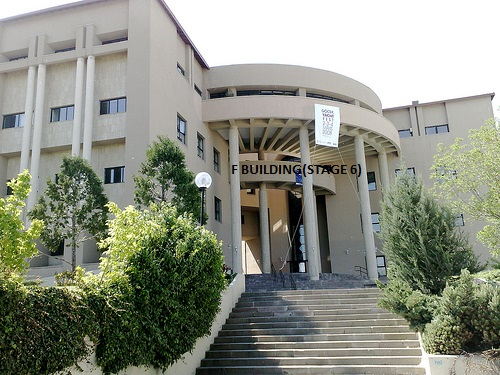
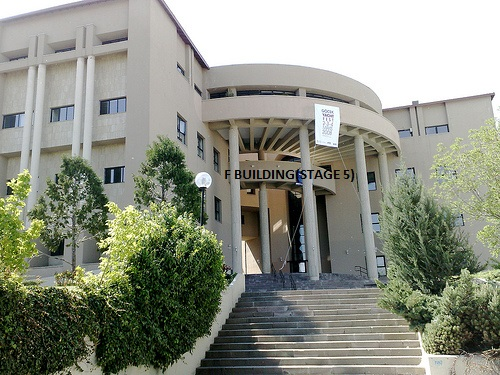
deminki yanlıştı bu dogru

Changed region(s): [[0.45, 0.44, 0.75, 0.4987]]

diff --git a/src/ui/StageSelection.java b/src/ui/StageSelection.java
@@ -66,9 +66,9 @@ class StageSelectionPanel extends JPanel implements ActionListener {
                                                 .addGroup(layout.createSequentialGroup()
                                                         .addComponent(stage4Button, javax.swing.GroupLayout.PREFERRED_SIZE, 227, javax.swing.GroupLayout.PREFERRED_SIZE)
                                                         .addGap(18, 18, 18)
-                                                        .addComponent(stage6Button, javax.swing.GroupLayout.PREFERRED_SIZE, 227, javax.swing.GroupLayout.PREFERRED_SIZE)
+                                                        .addComponent(stage5Button, javax.swing.GroupLayout.PREFERRED_SIZE, 227, javax.swing.GroupLayout.PREFERRED_SIZE)
                                                         .addGap(18, 18, 18)
-                                                        .addComponent(stage5Button, javax.swing.GroupLayout.PREFERRED_SIZE, 227, javax.swing.GroupLayout.PREFERRED_SIZE)))
+                                                        .addComponent(stage6Button, javax.swing.GroupLayout.PREFERRED_SIZE, 227, javax.swing.GroupLayout.PREFERRED_SIZE)))
                                         .addGap(3, 3, 3)))
                         .addContainerGap())
         );
@@ -84,8 +84,8 @@ class StageSelectionPanel extends JPanel implements ActionListener {
                         .addGap(46, 46, 46)
                         .addGroup(layout.createParallelGroup(javax.swing.GroupLayout.Alignment.BASELINE)
                                 .addComponent(stage4Button, javax.swing.GroupLayout.PREFERRED_SIZE, 200, javax.swing.GroupLayout.PREFERRED_SIZE)
-                                .addComponent(stage6Button, javax.swing.GroupLayout.PREFERRED_SIZE, 200, javax.swing.GroupLayout.PREFERRED_SIZE)
-                                .addComponent(stage5Button, javax.swing.GroupLayout.PREFERRED_SIZE, 200, javax.swing.GroupLayout.PREFERRED_SIZE))
+                                .addComponent(stage5Button, javax.swing.GroupLayout.PREFERRED_SIZE, 200, javax.swing.GroupLayout.PREFERRED_SIZE)
+                                .addComponent(stage6Button, javax.swing.GroupLayout.PREFERRED_SIZE, 200, javax.swing.GroupLayout.PREFERRED_SIZE))
                         .addGap(18, 18, 18)
                         .addComponent(mainMenuButton, javax.swing.GroupLayout.PREFERRED_SIZE, 40, javax.swing.GroupLayout.PREFERRED_SIZE)
                         .addGap(0, 24, Short.MAX_VALUE))

diff --git a/src/ui/HighScoreStageSelectionPanel.java b/src/ui/HighScoreStageSelectionPanel.java
@@ -56,19 +56,19 @@ class HighScoreStageSelectionPanel extends JPanel implements ActionListener {
         stage1Label.setText("Stage 1");
 
         stage2Label.setFont(new java.awt.Font("Comic Sans MS", 3, 24)); // NOI18N
-        stage2Label.setText("Stage 2");
+        stage2Label.setText("Stage 6");
 
         stage3Label.setFont(new java.awt.Font("Comic Sans MS", 3, 24)); // NOI18N
         stage3Label.setText("Stage 2");
 
         stage4Label.setFont(new java.awt.Font("Comic Sans MS", 3, 24)); // NOI18N
-        stage4Label.setText("Stage 2");
+        stage4Label.setText("Stage 5");
 
         stage5Label.setFont(new java.awt.Font("Comic Sans MS", 3, 24)); // NOI18N
-        stage5Label.setText("Stage 2");
+        stage5Label.setText("Stage 3");
 
         stage6Label.setFont(new java.awt.Font("Comic Sans MS", 3, 24)); // NOI18N
-        stage6Label.setText("Stage 2");
+        stage6Label.setText("Stage 4");
 
         javax.swing.GroupLayout layout = new javax.swing.GroupLayout(this);
         this.setLayout(layout);
@@ -91,9 +91,9 @@ class HighScoreStageSelectionPanel extends JPanel implements ActionListener {
                             .addGroup(javax.swing.GroupLayout.Alignment.TRAILING, layout.createSequentialGroup()
                                 .addComponent(stage4Button, javax.swing.GroupLayout.PREFERRED_SIZE, 227, javax.swing.GroupLayout.PREFERRED_SIZE)
                                 .addGap(18, 18, 18)
-                                .addComponent(stage6Button, javax.swing.GroupLayout.PREFERRED_SIZE, 227, javax.swing.GroupLayout.PREFERRED_SIZE)
+                                .addComponent(stage5Button, javax.swing.GroupLayout.PREFERRED_SIZE, 227, javax.swing.GroupLayout.PREFERRED_SIZE)
                                 .addGap(21, 21, 21)
-                                .addComponent(stage5Button, javax.swing.GroupLayout.PREFERRED_SIZE, 227, javax.swing.GroupLayout.PREFERRED_SIZE)))
+                                .addComponent(stage6Button, javax.swing.GroupLayout.PREFERRED_SIZE, 227, javax.swing.GroupLayout.PREFERRED_SIZE)))
                         .addContainerGap())
                     .addGroup(layout.createSequentialGroup()
                         .addGap(27, 27, 27)
